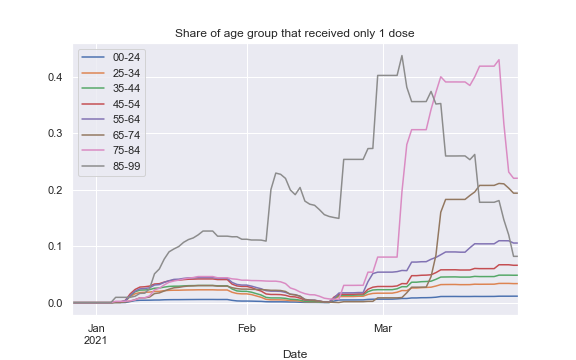
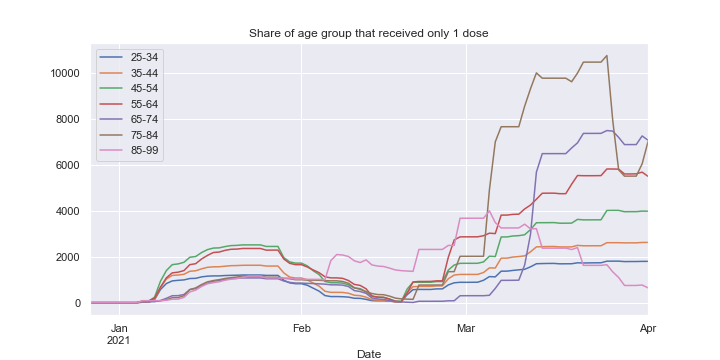
improved distribution algorithm

diff --git a/utility.py b/utility.py
@@ -333,7 +333,7 @@ def get_vaccinations_at(filter_region=None):
         df = df_full[df_full.Region == region]
         groups = {
             D1: {
-                "00-24": ["Gruppe<24_M_1", "Gruppe<24_W_1", "Gruppe<24_D_1"],
+                # "00-24": ["Gruppe<24_M_1", "Gruppe<24_W_1", "Gruppe<24_D_1"],
                 "25-34": ["Gruppe_25-34_M_1", "Gruppe_25-34_W_1", "Gruppe_25-34_D_1"],
                 "35-44": ["Gruppe_35-44_M_1", "Gruppe_35-44_W_1", "Gruppe_35-44_D_1"],
                 "45-54": ["Gruppe_45-54_M_1", "Gruppe_45-54_W_1", "Gruppe_45-54_D_1"],
@@ -343,7 +343,7 @@ def get_vaccinations_at(filter_region=None):
                 "85-99": ["Gruppe_>84_M_1", "Gruppe_>84_W_1", "Gruppe_>84_D_1"],
             },
             D2: {
-                "00-24": ["Gruppe<24_M_2", "Gruppe<24_W_2", "Gruppe<24_D_2"],
+                # "00-24": ["Gruppe<24_M_2", "Gruppe<24_W_2", "Gruppe<24_D_2"],
                 "25-34": ["Gruppe_25-34_M_2", "Gruppe_25-34_W_2", "Gruppe_25-34_D_2"],
                 "35-44": ["Gruppe_35-44_M_2", "Gruppe_35-44_W_2", "Gruppe_35-44_D_2"],
                 "45-54": ["Gruppe_45-54_M_2", "Gruppe_45-54_W_2", "Gruppe_45-54_D_2"],
@@ -387,6 +387,86 @@ def get_vaccinations_at(filter_region=None):
     return fix_multilevel(selection)
 
 
+
+#%% Calculate alternative dose-distribution
+# The strategy is similar to the one proposed here: https://www.bmj.com/content/372/bmj.n710/rr
+# The basic idea is this: The first dose is 89% effective, the 2nd dose 95%
+# COVID risks scales with age, roughly exponentially (mod preexisting conditions), therefore the best method is
+# to give a vaccination to someone that is from a group that benefits most from it
+# 95 - 89 = 6, i.e. 2nd dose is roughly 15x less effective
+# if X has a 15x higher risk of dying from COVID than Y, it's better to give X a second dose vs Y a first dose.
+def redistribute_doses(df, pop, *, distr_first=False, priority=None) -> pd.DataFrame:
+    """Distribute doses according to priority, s.t. lives saved is maximized.
+    Total number of vaccinations for each day does not change (as it is assumed that this is limited by capacity/supply).
+
+    Args:
+    - df pd.DataFrame: Dataframe with index = Date and columns with number of vaccinations per day and age group.
+        An example column would have the "Name" `(D1, "25-34")`. Age groups from 25-34 to 75-84 and then 85-99.
+        D1 is the string "1D", for second doses D2 == "2D" must be used.
+    - pop: Population of each age group from previous DataFrame.
+    - distr_first: Also distribute first doses. This is likely a bad idea as at least some of the first
+        doses for younger people were given to at-risk groups.
+    - priority: List of columns from `df` in priority order (which group should be vaccinated first).
+        Sort from low priority to high priority
+
+    Returns:
+        pd.DataFrame: Returns a DF with the same dimensions and columns as `df` but with vaccines
+        redistributed for higher life-saving-potential
+    """
+    have_d = df.iloc[0].copy() * 0  # Have 1 or 2 doses (init with 0)
+
+    # This ordering should optimize lives saved according to relative risk of each age group
+    # releasec by the CDC
+    # https://www.cdc.gov/coronavirus/2019-ncov/images/need-extra-precautions/319360-A_COVID-19_RiskForSevereDisease_Race_Age_2.18_p1.jpg
+    priorities = priority or [
+        (D2, "25-34"),
+        (D2, "35-44"),
+        (D2, "55-64"),
+        (D1, "25-34"),
+        (D2, "45-54"),
+        (D1, "35-44"),
+        (D2, "65-74"),
+        (D1, "45-54"),
+        (D2, "75-84"),
+        (D1, "55-64"),
+        (D1, "65-74"),
+        (D2, "85-99"),
+        (D1, "75-84"),
+        (D1, "85-99"),
+    ]
+
+    def get_remainder_d(d, group, vacc):
+        # how many stay in group, how many can go to other groups (according to priority)
+        unvacc = pop[group] - have_d[(d, group)]
+        missing = min(vacc, unvacc)  # this many still need their d-th shot
+        remainder = vacc - missing  # this is overflow, give to highest priority group
+        return missing, remainder
+
+    def assign_d(d, group, vacc, row):
+        # update data structures with vacc new d-th dose vaccines for age group
+        have_d[(d, group)] += vacc  # dose/group lvl vacc counter
+        if have_d[(d, group)] == pop[group]:
+            # print(f"Finished {d} for {grp}")
+            priorities.remove((d, group))
+        row[(d, group)] += vacc  # modify result
+        return row
+
+    rows = []
+    for date, row in df.iterrows():
+        row_new = row.copy() * 0  # modifying rows would change original DF
+        for (d, grp), vacc in row.items():
+            # Redistribute D2 always, first only if desired
+            if d == D2 or distr_first:
+                d, grp = priorities[-1]  # get next group that may need something
+            while vacc > 0:
+                m, vacc = get_remainder_d(d, grp, vacc)  # distribute
+                if m > 0:
+                    row_new = assign_d(d, grp, m, row_new)  # assign
+                d, grp = priorities[-1]  # get next group that may need something
+        # finished updating row, save to list
+        rows.append(row_new)
+    return pd.DataFrame(rows, index=df.index)
+
 # %%
 def get_demographics_at():
     df = pd.read_excel("data/population-at.xlsx")
@@ -397,7 +477,7 @@ def get_demographics_at():
     df["Age"] = df["Age"].astype(int)
     df = df.set_index("Age")
     age_groups = {
-        "00-24": list(range(00, 24 + 1)),
+        # "00-24": list(range(00, 24 + 1)),
         "25-34": list(range(25, 34 + 1)),
         "35-44": list(range(35, 44 + 1)),
         "45-54": list(range(45, 54 + 1)),

diff --git a/at_analysis.py b/at_analysis.py
@@ -1,5 +1,6 @@
 #%%
 from utility import *
+import altair as alt
 import matplotlib.pyplot as plt
 import pandas as pd
 import seaborn as sns
@@ -31,7 +32,7 @@ population = get_demographics_at()
 pt = pd.DataFrame(population.unstack()).T
 
 # Some global stuff
-plt.rcParams["figure.figsize"] = [8, 5]
+plt.rcParams["figure.figsize"] = [10, 5]
 
 O = "Old"
 Y = "Young"
@@ -81,51 +82,86 @@ d2data = prepare_table(x, "2 doses")
 save_table(d2data, "D2Data")
 
 #%% Only 1 Dose
-d1only = (d1a - d2a) / pop
+d1only = d1a - d2a
 ax = d1only.plot(title="Share of age group that received only 1 dose")
 save_fig(ax, "D1Only")
+x = [d1only.iloc[-2:-1], d1only.iloc[-2:-1] / pop * 100]
 d1only = prepare_table(x, "Only 1 dose")
 save_table(d1only, "D1OnlyData")
 
 
 #%% Combined table
-# d1d2o1 = fix_multilevel(d1data.join(d2data).join(d1only).swaplevel(axis=1)).sort_index(
-#     axis=1
-# )
+d1d2o1 = d1data.join(d2data).join(d1only)  # .sort_index(axis=1)
+d1d2o1
 # save_table(d1d2o1, "CompleteTable")
 #%% df[[D1,D2]].cumsum().plot()
 
-#%% Get Data for Old and Young
-cmp = pd.DataFrame()
-for d in [D1, D2]:
-    cmp[(d, O, region)] = df[d][[c for c in df[d].columns if c[0] >= "5"]].sum(axis=1)
-    cmp[(d, Y, region)] = df[d][[c for c in df[d].columns if c[0] < "5"]].sum(axis=1)
 
-for a in [O, Y]:
-    cmp[(T, a, region)] = cmp[(D1, a, region)] + cmp[(D2, a, region)]
-cmp = fix_multilevel(cmp)
+region_names = {
+    "Burgenland" : "at-bg",
+    "Kärnten" : "at-k",
+    "Niederösterreich" : "at-noe",
+    "Oberösterreich" : "at-ooe",
+    "Salzburg" : "at-sbg",
+    "Steiermark" : "at-stmk",
+    "Tirol" : "at-t",
+    "Vorarlberg" : "at-vlbg",
+    "Wien" : "at-vienna",
+    "Österreich" : "at",
+}
 
-a = cmp[T][sorted(cmp[T].columns)].cumsum()
+region = "Österreich"
+df = df_full[region]
+pop = pt[region].loc[0]
+dfv = df[[D1, D2]]
 
-share_vaccine_young = a[Y] / (a[O] + a[Y])
-t = "Share of vaccines going to young (<55)"
-share_vaccine_young.loc["2021-01-15":].plot(title=t)
 
+rd = redistribute_doses(dfv, pop, distr_first=True)
+rdc = rd.cumsum()
+rdc.plot()
+
+rd2 = redistribute_doses(dfv, pop, distr_first=False)
+rd2.cumsum().plot()
+
+#%%
+
+
+def get_avg_immunity(df, pop):
+    df = df.cumsum().copy()
+    df[D1] -= df[D2]  # D1 contains now only 1st dose instead
+    imm_p = df[D1].copy() * 0
+    imm_p += (df[D1] * 0.89) / pop
+    imm_p += (df[D2] * 0.95) / pop
+    return imm_p
+
+
+imm = get_avg_immunity(rd, pop)
+ax = get_avg_immunity(dfv, pop).plot()
+ax.set_ylim(0, 1)
+ax = get_avg_immunity(rd2, pop).plot()
+ax.set_ylim(0, 1)
 # %%
-for region in ["Vorarlberg"]:
-    v = df[region]
-    v_total = v[D1] + v[D2]
-    # v_total["Sum"] = v_total.sum(axis=1)
-    v_rel1 = v[D1] / pt[region].loc[0]
-    v_rel2 = v[D2] / pt[region].loc[0]
-    v_rel = v_total / pt[region].loc[0]
-    v_rel1.cumsum().plot(title=region)
-    v_rel2.cumsum().plot(title=region)
 # %%
-def calc_daily_stuff(df, pt):
-    display(df)
+chart_data = pd.melt(
+    imm.reset_index(),
+    id_vars="Date",
+    value_vars=imm.columns,
+    var_name="Age Group",
+    value_name="Immunity",
+)
 
-
-region = "Vorarlberg"
-calc_daily_stuff(df[region], pt[region])
+chart = (
+    alt.Chart(chart_data)
+    .mark_line(clip=True)
+    .encode(
+        x="Date",
+        y=alt.Y("Immunity", scale=alt.Scale(domain=(0, 1))),
+        color="Age Group",
+        strokeDash="Age Group",
+    )
+    .interactive()
+)
+chart.save("chart.json")
+# %%
+chart
 # %%

diff --git a/fdf_posts/CaseStudyVlbg.md b/fdf_posts/CaseStudyVlbg.md
@@ -44,16 +44,15 @@ More relevant than the number of vaccinations per age group is the number of peo
 
 [//]: # (D1Data)
 
-|       | 1 dose Absolute | 1 dose % |
-| :---- | --------------: | -------: |
-| 00-24 |            1904 |     1.76 |
-| 25-34 |            3091 |     5.84 |
-| 35-44 |            4386 |     8.19 |
-| 45-54 |            6778 |    11.32 |
-| 55-64 |            8527 |    16.07 |
-| 65-74 |            8979 |    25.29 |
-| 75-84 |           13912 |     55.6 |
-| 85-99 |            6048 |    66.16 |
+|       |   1 dose Absolute |   1 dose % |
+|:------|------------------:|-----------:|
+| 25-34 |              3111 |       5.88 |
+| 35-44 |              4409 |       8.23 |
+| 45-54 |              6808 |      11.37 |
+| 55-64 |              8610 |      16.22 |
+| 65-74 |              9361 |      26.36 |
+| 75-84 |             14451 |      57.76 |
+| 85-99 |              6069 |      66.39 |
 
 [//]: # (D1Data)
 
@@ -66,16 +65,15 @@ And the number of people fully vaccinated (received 2 doses)
 [//]: # (D2Relative)
 [//]: # (D2Data)
 
-|       | 2 doses Absolute | 2 doses % |
-| :---- | ---------------: | --------: |
-| 00-24 |              665 |      0.62 |
-| 25-34 |             1308 |      2.47 |
-| 35-44 |             1785 |      3.33 |
-| 45-54 |             2815 |       4.7 |
-| 55-64 |             2921 |       5.5 |
-| 65-74 |             2089 |      5.88 |
-| 75-84 |             8397 |     33.56 |
-| 85-99 |             5298 |     57.95 |
+|       |   2 doses Absolute |   2 doses % |
+|:------|-------------------:|------------:|
+| 25-34 |               1312 |        2.48 |
+| 35-44 |               1785 |        3.33 |
+| 45-54 |               2818 |        4.71 |
+| 55-64 |               2921 |        5.5  |
+| 65-74 |               2093 |        5.89 |
+| 75-84 |               8401 |       33.58 |
+| 85-99 |               5301 |       57.99 |
 
 [//]: # (D2Data)
 
@@ -91,16 +89,15 @@ This one is not strictly increasing as people might get a second shot at some po
 
 [//]: # (D1OnlyData)
 
-|       | Only 1 dose Absolute | Only 1 dose % |
-| :---- | -------------------: | ------------: |
-| 00-24 |                  665 |          0.62 |
-| 25-34 |                 1308 |          2.47 |
-| 35-44 |                 1785 |          3.33 |
-| 45-54 |                 2815 |           4.7 |
-| 55-64 |                 2921 |           5.5 |
-| 65-74 |                 2089 |          5.88 |
-| 75-84 |                 8397 |         33.56 |
-| 85-99 |                 5298 |         57.95 |
+|       |   Only 1 dose Absolute |   Only 1 dose % |
+|:------|-----------------------:|----------------:|
+| 25-34 |                   1799 |            3.4  |
+| 35-44 |                   2624 |            4.9  |
+| 45-54 |                   3990 |            6.66 |
+| 55-64 |                   5689 |           10.72 |
+| 65-74 |                   7268 |           20.47 |
+| 75-84 |                   6050 |           24.18 |
+| 85-99 |                    768 |            8.4  |
 
 [//]: # (D1OnlyData)
 
